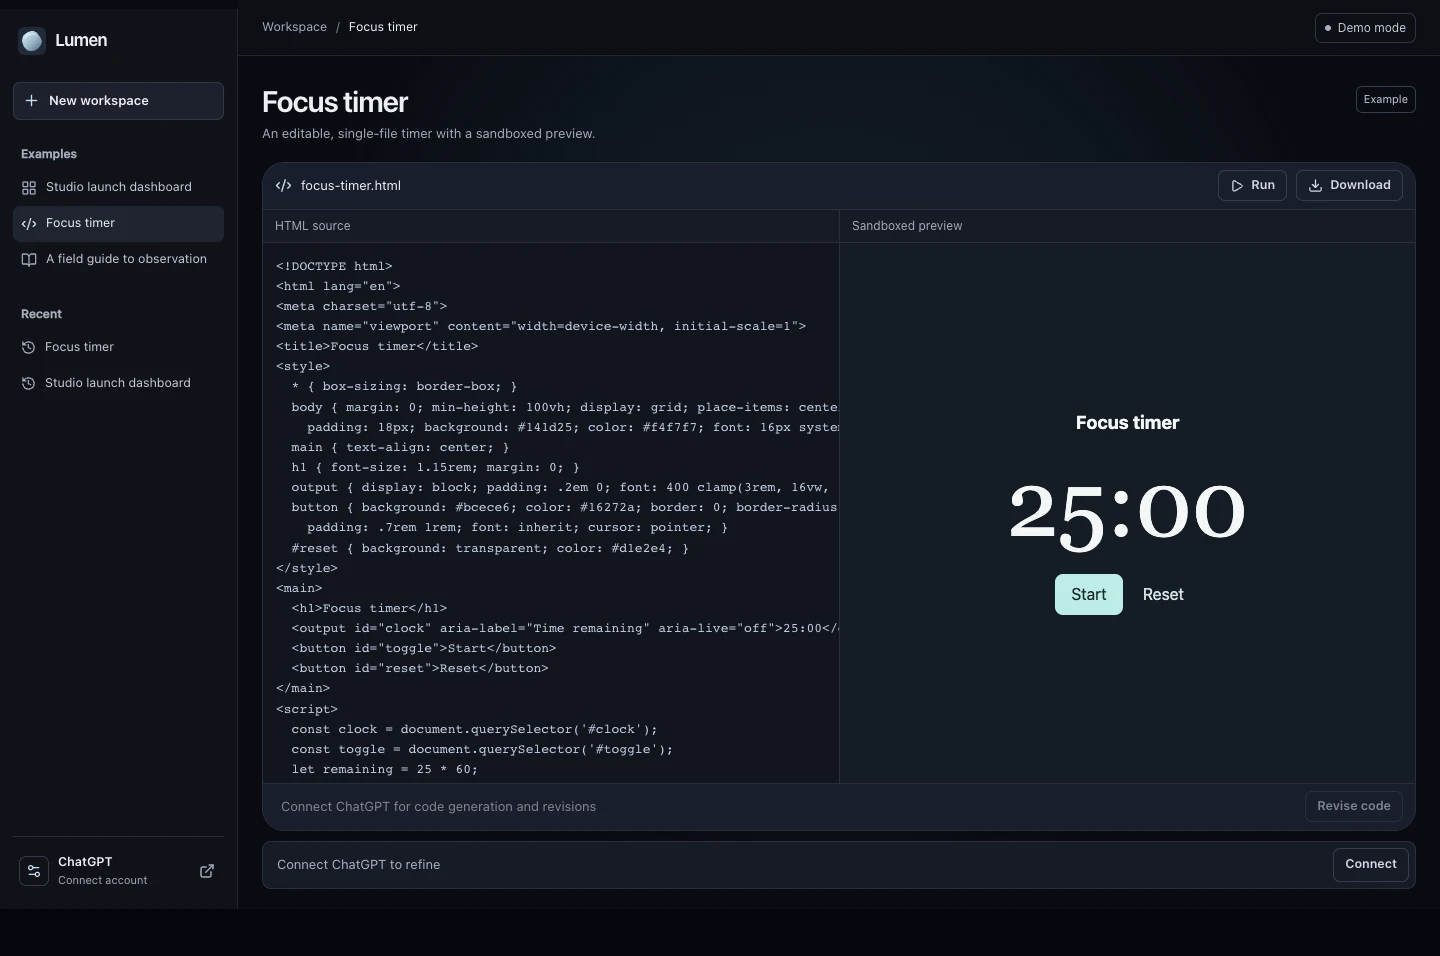
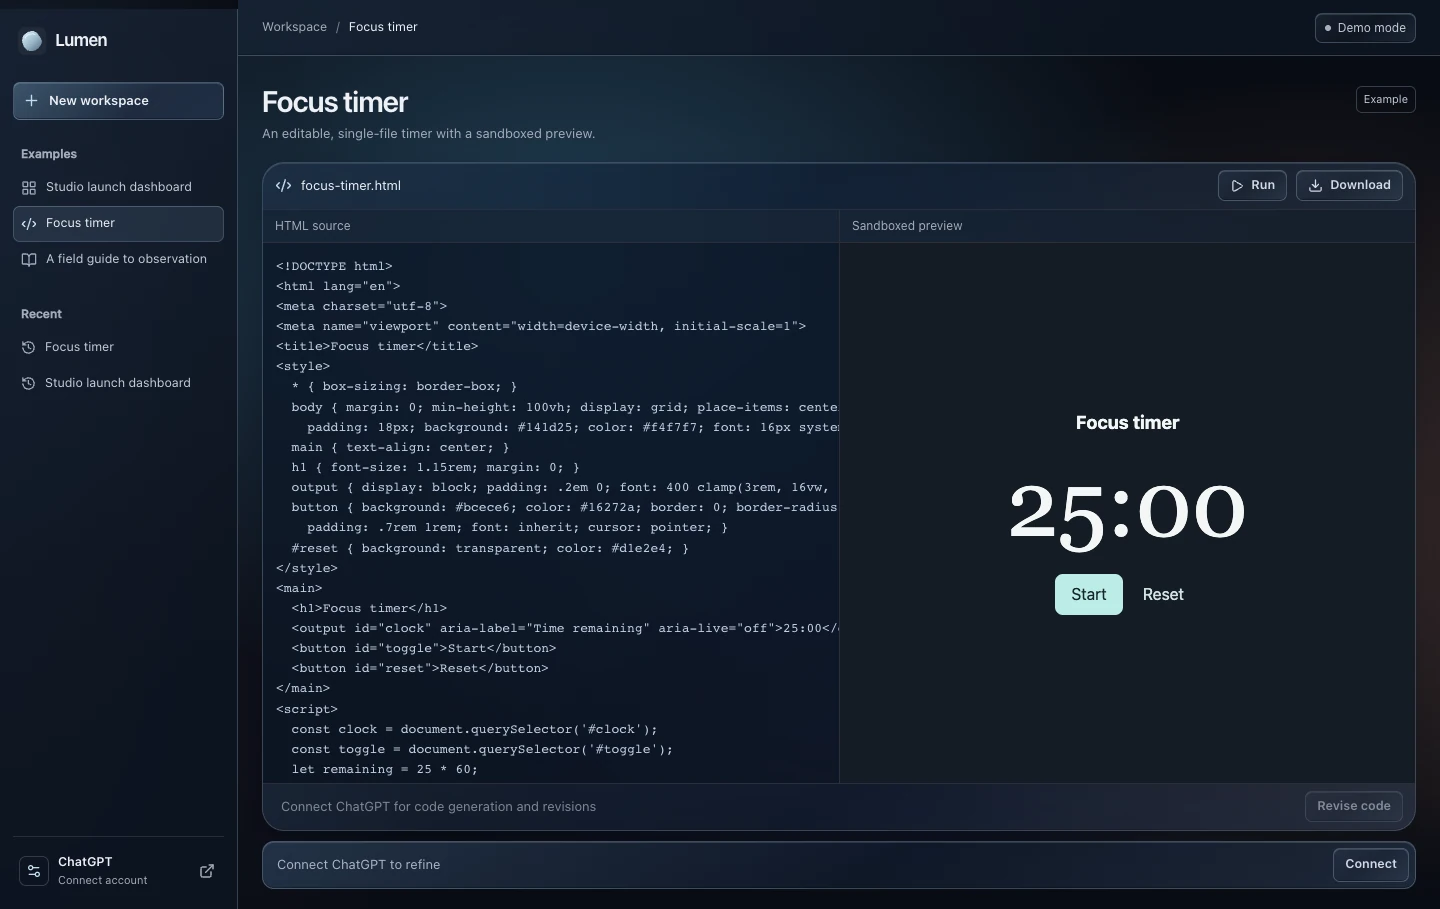
Apply frosted glass materials across LUMEN

diff --git a/app/globals.css b/app/globals.css
@@ -137,13 +137,21 @@
   --muted-ink: #a6abb9;
   --mint: #c0dded;
   --line: #2b2e39;
-  --rail: #101218;
-  --raised: #181b24;
+  --frost-rim: #b8d8ef3d;
+  --frost-rim-light: #edf8ff22;
+  --frost-deep: #0d1421;
+  --frost-pane: linear-gradient(146deg, #44586e36, #19243320 48%, #7598b323);
+  --frost-surface: linear-gradient(146deg, #293b50c9, #121b2cbb 53%, #243145ba);
+  --frost-control: linear-gradient(138deg, #47627ac7, #202d42e8 60%, #23334bcf);
+  --frost-edge: inset 0 1px 0 var(--frost-rim-light), inset 0 -1px 0 #080d1670;
   display: grid;
   grid-template-columns: 238px minmax(0, 1fr);
   min-height: 100svh;
   color: var(--ink);
-  background: #0a0c12;
+  background:
+    radial-gradient(ellipse 300px 410px at 0 14rem, #263b5380, transparent 100%),
+    radial-gradient(ellipse 420px 540px at 0 43rem, #2d254052, transparent 100%),
+    #090c13;
   font-size: 14px;
 }
 .lumen-app ::selection { background: #b4dcef; color: #0a1520; }
@@ -153,14 +161,14 @@
   display: flex;
   flex-direction: column;
   min-width: 0;
-  background: var(--rail);
   padding: 16px 13px;
 }
 .lumen-sidebar {
   position: sticky;
   top: 0;
   height: 100svh;
-  border-right: 1px solid #242731;
+  border-right: 1px solid var(--frost-rim);
+  background: #101621;
 }
 .lumen-wordmark {
   display: flex;
@@ -187,12 +195,13 @@
   margin-top: 24px;
   min-height: 38px;
   padding: 0 9px;
-  border: 1px solid #323744;
-  background: #1c202b;
+  border: 1px solid var(--frost-rim);
+  box-shadow: var(--frost-edge);
+  background: var(--frost-control);
   font-size: 13px;
   font-weight: 600;
 }
-.lumen-new:hover { background: #272d3b; }
+.lumen-new:hover { background: linear-gradient(138deg, #59758fc7, #2e3d57e8); }
 .lumen-new svg { color: var(--mint); }
 .lumen-library { flex: 1; min-height: 0; overflow: auto; margin-top: 25px; }
 .lumen-library-group + .lumen-library-group { margin-top: 27px; }
@@ -201,7 +210,8 @@
 .lumen-library-item { padding-inline: 8px; color: #c6cbd7; font-size: 12.5px; }
 .lumen-library-item svg { flex: none; color: #a1aabc; }
 .lumen-library-item span { min-width: 0; overflow: hidden; text-overflow: ellipsis; white-space: nowrap; }
-.lumen-library-item:hover, .lumen-library-item[aria-current] { background: #202430; color: var(--ink); }
+.lumen-library-item:hover, .lumen-library-item[aria-current] { background: #a5c9ed1c; color: var(--ink); }
+.lumen-library-item[aria-current] { box-shadow: inset 0 0 0 1px #b8dcf42e, inset 0 1px 0 #eff9ff18; }
 .lumen-library-item[aria-current] svg { color: var(--mint); }
 .lumen-rail-footer { display: flex; align-items: center; gap: 4px; padding-top: 12px; border-top: 1px solid #2a2d37; margin-top: 12px; }
 .lumen-account-button { min-width: 0; padding: 4px 6px; }
@@ -229,8 +239,9 @@
   gap: 12px;
   height: 56px;
   padding-inline: 24px;
-  border-bottom: 1px solid #22252e;
-  background: #0d0f16;
+  border-bottom: 1px solid var(--frost-rim);
+  background: #111927;
+  box-shadow: inset 0 -1px 0 #080d1670;
 }
 .lumen-location { display: flex; align-items: center; gap: 9px; min-width: 0; color: var(--muted-ink); font-size: 12.5px; }
 .lumen-location-divider { color: #767f91; }
@@ -242,8 +253,10 @@
   flex: none;
   margin-left: auto;
   padding: 5px 9px;
-  border: 1px solid #2e3340;
+  border: 1px solid var(--frost-rim);
   border-radius: 7px;
+  background: var(--frost-pane);
+  box-shadow: var(--frost-edge);
   color: #c6cbd7;
   font-size: 12px;
 }
@@ -255,14 +268,23 @@
 /* The original glass object leads the creation screen. */
 .lumen-scene {
   position: absolute;
-  inset: 56px 0 auto;
-  height: min(70svh, 580px);
+  inset: 0 0 auto;
+  height: min(75svh, 636px);
   overflow: hidden;
   pointer-events: none;
-  background: radial-gradient(ellipse 56% 76% at 49% 34%, #142932 0%, #0f1923 47%, transparent 77%);
-  mask-image: linear-gradient(#000 78%, transparent);
+  background:
+    radial-gradient(ellipse 41% 39% at 48% 58%, #2b4f6280, #16273a51 66%, transparent),
+    radial-gradient(ellipse 28% 37% at 68% 69%, #5b3f325e, transparent 78%);
+  mask-image: linear-gradient(#000 88%, transparent);
 }
-.lumen-scene.is-split { height: 100%; max-height: 100svh; opacity: .73; }
+.lumen-scene.is-split {
+  height: 100%;
+  max-height: 100svh;
+  background:
+    radial-gradient(ellipse 64% 60% at 27% 29%, #2c5673b0, transparent 84%),
+    radial-gradient(ellipse 45% 60% at 88% 58%, #6e4d4380, transparent 83%),
+    radial-gradient(ellipse 40% 50% at 53% 65%, #29295a80, transparent);
+}
 .lumen-still {
   position: absolute;
   inset: 0;
@@ -276,9 +298,10 @@
 .lumen-launch-description { margin: 9px 0 23px; color: var(--muted-ink); font-size: 14px; }
 .lumen-composer {
   padding: 13px 13px 10px;
-  border: 1px solid #3d4759;
-  border-radius: 14px;
-  background: #161b26;
+  border: 1px solid var(--frost-rim);
+  border-radius: 18px;
+  background: #1b2639;
+  box-shadow: var(--frost-edge), 0 9px 28px #02060d4d;
   text-align: left;
 }
 .lumen-composer:focus-within, .lumen-refine:focus-within { border-color: #a5c7dc; }
@@ -300,10 +323,14 @@
   font-size: 12.5px;
   font-weight: 620;
 }
-.lumen-primary { background: var(--mint); color: #101c29; }
+.lumen-primary {
+  background: linear-gradient(#e6f4ff, #a7c9e0);
+  box-shadow: inset 0 1px 0 #fff9, inset 0 -1px 0 #4d758c55;
+  color: #101c29;
+}
 .lumen-primary:hover:not(:disabled) { background: #ddf0f8; }
-.lumen-primary:disabled { background: #262e3e; color: #a8b5c9; }
-.lumen-secondary { border: 1px solid #363d4d; color: #d3d8e5; }
+.lumen-primary:disabled { background: #abc1dd22; color: #b9c9dd; box-shadow: var(--frost-edge); }
+.lumen-secondary { border: 1px solid var(--frost-rim); background: var(--frost-pane); box-shadow: var(--frost-edge); color: #d3d8e5; }
 .lumen-secondary:hover:not(:disabled) { background: #293142; }
 .lumen-secondary:disabled { opacity: .55; }
 
@@ -315,28 +342,32 @@
 .lumen-workspace-source { flex: none; padding: 4px 7px; margin-top: 2px; border: 1px solid #353d4b; border-radius: 6px; color: #c1c9d8; font-size: 11px; }
 .lumen-shell { height: max(485px, calc(100dvh - 231px)); }
 .lumen-shell-dashboard { height: auto; }
-.lumen-workbench { border: 1px solid var(--line); background: #11151e; }
-.lumen-refine { display: flex; align-items: center; gap: 9px; padding: 6px; border: 1px solid var(--line); border-radius: 9px; background: #161b25; margin-top: 10px; }
+.lumen-workbench {
+  border: 1px solid var(--frost-rim);
+  background: var(--frost-deep);
+  box-shadow: var(--frost-edge), 0 9px 26px #02050c38;
+}
+.lumen-refine { display: flex; align-items: center; gap: 9px; padding: 6px; border: 1px solid var(--frost-rim); border-radius: 12px; background: #1b2639; box-shadow: var(--frost-edge); margin-top: 10px; }
 .lumen-refine input { flex: 1; min-width: 0; padding: 0 8px; font-size: 13px; }
-.lumen-dialog { width: min(calc(100% - 32px), 420px); max-height: 85svh; overflow: auto; margin: auto; padding: 13px 17px 17px; background: #181c26; border: 1px solid #374052; border-radius: 12px; color: var(--ink); }
+.lumen-dialog { width: min(calc(100% - 32px), 420px); max-height: 85svh; overflow: auto; margin: auto; padding: 13px 17px 17px; background: #1b2639; border: 1px solid var(--frost-rim); border-radius: 16px; box-shadow: var(--frost-edge), 0 16px 48px #03071170; color: var(--ink); }
 .lumen-dialog::backdrop, .lumen-drawer::backdrop { background: #060810bb; }
 .lumen-dialog-heading, .lumen-drawer-heading { display: flex; align-items: center; justify-content: space-between; gap: 12px; }
 .lumen-dialog-heading { margin-bottom: 9px; font-size: 16px; font-weight: 600; }
 .lumen-account-actions { display: flex; flex-wrap: wrap; align-items: center; gap: 10px; margin-top: 16px; }
 .lumen-account-actions a { font-size: 13px; color: var(--mint); text-decoration: underline; text-underline-offset: 3px; }
 .lumen-account-status { font-size: 14px; line-height: 1.55; overflow-wrap: anywhere; color: #c2c9d5; }
-.lumen-drawer[open] { position: fixed; inset: 0 auto 0 0; width: min(285px, 87vw); max-width: none; height: 100dvh; max-height: none; margin: 0; color: var(--ink); border-right: 1px solid var(--line); }
+.lumen-drawer[open] { position: fixed; inset: 0 auto 0 0; width: min(285px, 87vw); max-width: none; height: 100dvh; max-height: none; margin: 0; color: var(--ink); border-right: 1px solid var(--frost-rim); background: #172032; box-shadow: var(--frost-edge); }
 
 .lumen-ide-header, .lumen-ide-revision {
   display: flex; align-items: center; gap: 9px; min-height: 47px; padding: 7px 12px;
-  border-bottom: 1px solid var(--line); background: #191e2b; font-size: 13px;
+  border-bottom: 1px solid var(--line); background: var(--frost-pane); font-size: 13px;
 }
 .lumen-ide-header > svg { color: var(--mint); flex-shrink: 0; }
 .lumen-ide-header .lumen-secondary, .lumen-ide-revision .lumen-secondary { min-height: 31px; }
 .lumen-ide-panels { display: grid; grid-template-columns: minmax(0, 1fr) minmax(0, 1fr); flex: 1; min-height: 0; }
-.lumen-editor-panel, .lumen-preview-panel { display: flex; flex-direction: column; min-width: 0; min-height: 0; background: #11151e; }
+.lumen-editor-panel, .lumen-preview-panel { display: flex; flex-direction: column; min-width: 0; min-height: 0; background: #0c15228f; }
 .lumen-preview-panel { border-left: 1px solid var(--line); }
-.lumen-editor-label { display: flex; justify-content: space-between; padding: 7px 12px; color: var(--muted-ink); background: #161b25; border-bottom: 1px solid var(--line); font-size: 12px; }
+.lumen-editor-label { display: flex; justify-content: space-between; padding: 7px 12px; color: var(--muted-ink); background: #a4c7eb0e; border-bottom: 1px solid var(--line); font-size: 12px; }
 .lumen-editor-panel textarea, .lumen-preview-panel iframe { flex: 1; min-height: 0; width: 100%; }
 .lumen-editor-panel textarea { resize: none; padding: 13px; color: #c3d0e4; font: 13px/1.55 ui-monospace, monospace; white-space: pre; }
 .lumen-ide-empty { display: grid; place-content: center; justify-items: center; flex: 1; gap: 13px; text-align: center; padding: 14px; font-size: 14px; color: var(--muted-ink); }
@@ -356,7 +387,7 @@
   .lumen-launch h1 { font-size: 1.68rem; }
 }
 @media (max-width: 620px) {
-  .lumen-scene { height: 365px; }
+  .lumen-scene { height: 401px; }
   .lumen-home { padding-top: 300px; }
   .lumen-still { background-size: auto 365px; }
   .lumen-ide-tabs { display: flex; gap: 13px; padding-inline: 12px; border-bottom: 1px solid var(--line); font-size: 13px; }
@@ -372,9 +403,15 @@
 
 .lumen-still[data-live=true] { opacity: 0; }
 .lumen-dashboard { flex: 1; min-height: 0; overflow: auto; padding: 14px; }
-.lumen-metrics { display: grid; grid-template-columns: repeat(auto-fit, minmax(min(145px, 100%), 1fr)); margin-bottom: 13px; border: 1px solid #2b303c; border-radius: 9px; background: #171d29; }
+.lumen-metrics { display: grid; grid-template-columns: repeat(auto-fit, minmax(min(145px, 100%), 1fr)); margin-bottom: 13px; border: 1px solid var(--frost-rim); border-radius: 10px; background: var(--frost-pane); box-shadow: var(--frost-edge); }
 .lumen-metrics:last-child { margin-bottom: 0; }
-.lumen-dashboard .glass { box-shadow: none; backdrop-filter: none; border-color: #2b303c; background: #171d29; }
+.lumen-dashboard .glass {
+  box-shadow: var(--frost-edge);
+  backdrop-filter: none;
+  -webkit-backdrop-filter: none;
+  border-color: var(--frost-rim);
+  background: var(--frost-pane);
+}
 .lumen-dashboard .lumen-metric { background: none; box-shadow: none; border: 0; border-radius: 0; }
 @media (min-width: 1024px) {
   .lumen-metrics .lumen-metric + .lumen-metric { border-left: 1px solid #2b303c; }
@@ -382,4 +419,24 @@
 @media (max-width: 510px) {
   .lumen-metrics { grid-template-columns: 1fr; }
   .lumen-metrics .lumen-metric + .lumen-metric { border-top: 1px solid #2b303c; }
+}
+
+@supports ((backdrop-filter: blur(1px)) or (-webkit-backdrop-filter: blur(1px))) {
+  .lumen-sidebar, .lumen-header {
+    background: linear-gradient(145deg, #182333cf, #0d1420da 75%);
+    -webkit-backdrop-filter: blur(18px) saturate(135%);
+    backdrop-filter: blur(18px) saturate(135%);
+  }
+
+  .lumen-composer, .lumen-refine, .lumen-dialog, .lumen-drawer[open] {
+    background: var(--frost-surface);
+    -webkit-backdrop-filter: blur(26px) saturate(150%);
+    backdrop-filter: blur(26px) saturate(150%);
+  }
+
+  .lumen-workbench {
+    background: linear-gradient(148deg, #141f32a1, #0d1727a8 56%, #1a2030a8);
+    -webkit-backdrop-filter: blur(21px) saturate(150%);
+    backdrop-filter: blur(21px) saturate(150%);
+  }
 }

diff --git a/components/shells/music-shell.tsx b/components/shells/music-shell.tsx
@@ -77,14 +77,14 @@ export function MusicShell({
 
   return (
     <motion.section
-      className="flex h-full min-h-0 flex-col rounded-2xl border border-glass-border overflow-hidden bg-[#28292e] font-sans text-[#d8d9dd]"
+      className="flex h-full min-h-0 flex-col lumen-workbench rounded-xl overflow-hidden font-sans text-[#d8d9dd]"
       initial={{ opacity: 0, scale: 0.98 }}
       animate={{ opacity: 1, scale: 1, transition: { duration: 0.5, delay: 0.35 } }}
       exit={{ opacity: 0, scale: 0.98, transition: { duration: 0.25 } }}
       aria-label={`Music studio: ${schema.title}`}
     >
       {/* Transport bar */}
-      <header className="flex h-14 shrink-0 items-center gap-3 border-b border-black/40 bg-gradient-to-b from-[#3a3b41] to-[#2f3035] px-2 sm:px-4">
+      <header className="flex h-14 shrink-0 items-center gap-3 border-b border-black/40 bg-white/8 px-2 sm:px-4">
         <Music2 className="hidden size-4 text-[#30b0c7] sm:block" aria-hidden="true" />
         <span className="hidden text-sm font-medium sm:block">Lumen Studio</span>
 
@@ -228,7 +228,7 @@ export function MusicShell({
 
         {/* Producer chat drawer */}
         {drawerOpen && (
-          <aside className="flex w-72 shrink-0 flex-col border-l border-black/40 bg-[#2d2e33]">
+          <aside className="flex w-72 shrink-0 flex-col border-l border-black/40 bg-[#111a2d78]">
             <div className="flex h-9 shrink-0 items-center gap-2 border-b border-black/40 px-3 text-xs font-medium">
               <Bot className="size-3.5 text-[#30b0c7]" aria-hidden="true" />
               AI Producer

diff --git a/components/shells/gallery-shell.tsx b/components/shells/gallery-shell.tsx
@@ -54,14 +54,14 @@ export function GalleryShell({
 
   return (
     <motion.section
-      className="flex h-full min-h-0 flex-col rounded-2xl border border-glass-border overflow-hidden bg-[#181818] font-sans text-[#dddddd]"
+      className="flex h-full min-h-0 flex-col lumen-workbench rounded-xl overflow-hidden font-sans text-[#dddddd]"
       initial={{ opacity: 0, scale: 0.98 }}
       animate={{ opacity: 1, scale: 1, transition: { duration: 0.5, delay: 0.35 } }}
       exit={{ opacity: 0, scale: 0.98, transition: { duration: 0.25 } }}
       aria-label={`Design studio: ${schema.title}`}
     >
       {/* Top bar */}
-      <header className="flex h-11 shrink-0 items-center gap-3 border-b border-black/60 bg-[#222222] px-3 text-xs">
+      <header className="flex h-11 shrink-0 items-center gap-3 border-b border-black/60 bg-white/8 px-3 text-xs">
         <Palette className="size-4 text-[#c792ea]" aria-hidden="true" />
         <span className="font-medium">Lumen Studio</span>
         <span className="text-[#8a8a8a]">— {schema.title}</span>
@@ -117,7 +117,7 @@ export function GalleryShell({
         </div>
 
         {/* Inspector */}
-        <aside className="flex h-1/2 min-h-0 shrink-0 flex-col border-t border-black/60 bg-[#222222] sm:h-full sm:w-72 sm:border-l sm:border-t-0">
+        <aside className="flex h-1/2 min-h-0 shrink-0 flex-col border-t border-black/60 bg-[#111a2d78] sm:h-full sm:w-72 sm:border-l sm:border-t-0">
           <div className="flex h-9 shrink-0 items-center border-b border-black/60 text-xs">
             <button
               type="button"

diff --git a/components/shells/answer-shell.tsx b/components/shells/answer-shell.tsx
@@ -119,7 +119,7 @@ export function AnswerShell({
 
   return (
     <motion.section
-      className="flex h-full min-h-0 flex-col rounded-2xl border border-glass-border overflow-hidden bg-[#1f2125] font-sans text-[#e8eaed]"
+      className="flex h-full min-h-0 flex-col lumen-workbench rounded-xl overflow-hidden font-sans text-[#e8eaed]"
       initial={{ opacity: 0 }}
       animate={{ opacity: 1, transition: { duration: 0.5, delay: 0.35 } }}
       exit={{ opacity: 0, transition: { duration: 0.25 } }}

diff --git a/README.md b/README.md
@@ -55,7 +55,7 @@ LUMEN uses [OpenAI’s Sign in with ChatGPT flow for local apps](https://develop
 - **Next.js App Router** serves the React workspace and the loopback-only API routes.
 - **OpenAI Responses API** uses the plan authorized by the signed-in user. The official local DevKit manages authorization, token refresh, and encrypted connection storage. Browser code receives connection status and model names.
 - **Zod** validates model-generated layouts, music notes, and vector primitives before rendering them. Code runs in an isolated iframe with restrictions on external resources. Downloaded HTML runs under the policy of whatever environment opens it, so review it before sharing or hosting it.
-- **Three.js** renders the glass object where WebGL is available. The app shows a still of the same scene when WebGL or motion is disabled.
+- **Three.js** renders the glass object where WebGL is available. The workspace uses translucent surfaces that frost the scene behind them. The app shows a still of the same scene when WebGL or motion is disabled.
 
 LUMEN is designed to run on your own machine. Keep it bound to loopback and avoid exposing or forwarding its local port. Prompts and the context required to answer them go to OpenAI when you use connected features. The dashboard shows the data you supply or explicitly labeled sample data. ChatGPT plan usage currently supports the text features used here, and the vector studio builds SVGs from validated text output. See [OpenAI’s preview limitations](https://developers.openai.com/siwc/token-sharing-open-source/preview-limitations).
 
